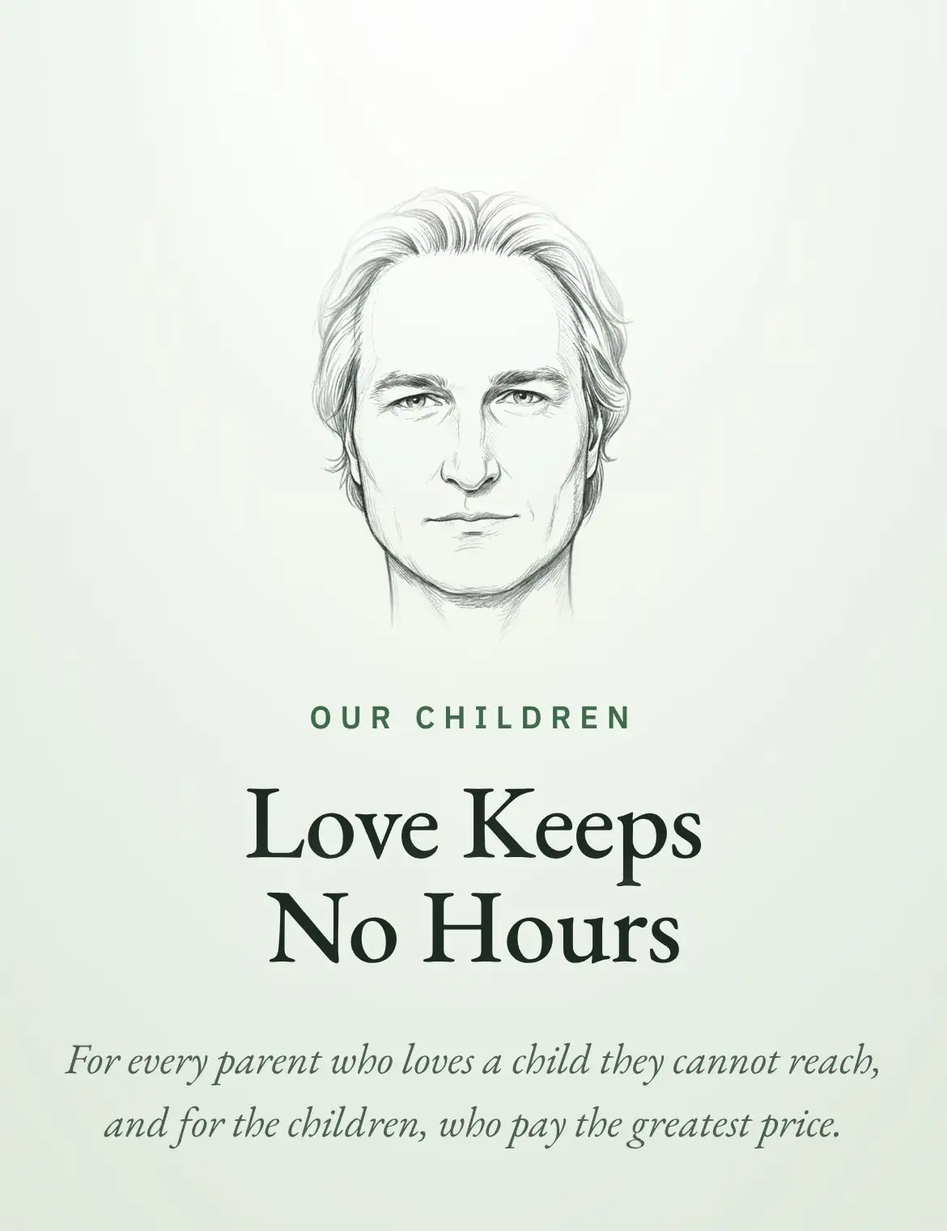
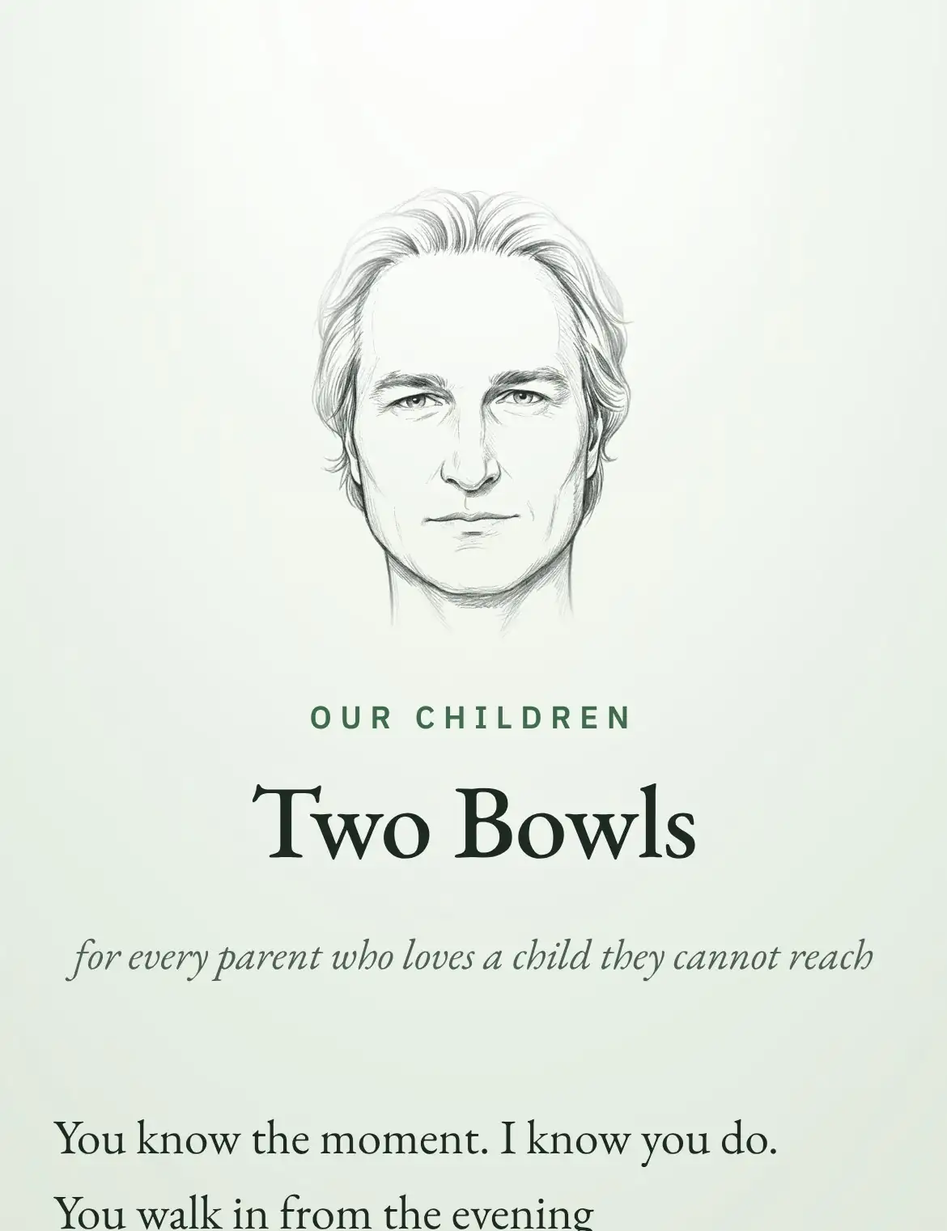
halseyminor.com: counts as of 2026-11-16

diff --git a/index.html b/index.html
@@ -13,12 +13,12 @@
 <meta charset="utf-8">
 <meta name="viewport" content="width=device-width, initial-scale=1, viewport-fit=cover">
 <title>Our Children · Halsey Minor</title>
-<meta name="description" content="For every parent who loves a child they cannot reach, and for the children, who pay the greatest price.">
+<meta name="description" content="For every parent who loves a child they cannot reach.">
 <link rel="canonical" href="https://halseyminor.com/our-children/">
 <meta property="og:type" content="website">
 <meta property="og:url" content="https://halseyminor.com/our-children/">
-<meta property="og:title" content="Love Keeps No Hours">
-<meta property="og:description" content="For every parent who loves a child they cannot reach, and for the children, who pay the greatest price.">
+<meta property="og:title" content="Two Bowls">
+<meta property="og:description" content="For every parent who loves a child they cannot reach.">
 <link rel="icon" href="/our-children/icon.svg" type="image/svg+xml">
 <meta name="theme-color" content="#E7EEE4">
 <link rel="stylesheet" href="https://fonts.googleapis.com/css2?family=Jost:wght@400;500;600;700;800&family=IBM+Plex+Sans:wght@400;600&family=EB+Garamond:ital,wght@0,400;0,500;1,400&family=IBM+Plex+Mono:wght@500&display=swap">
@@ -90,93 +90,69 @@ a { color: var(--leaf); text-underline-offset: 3px; text-decoration-thickness: 1
   <article class="poem" data-who="halsey" aria-labelledby="poem-h">
     <div class="face"><img src="/our-children/halsey.webp" srcset="/our-children/halsey-sm.webp 320w, /our-children/halsey.webp 620w" sizes="(max-width: 599px) 150px, 230px" width="620" height="840" alt="Halsey Minor, drawn in pencil" decoding="async" fetchpriority="high"></div>
     <p class="kick">Our Children</p>
-    <h1 id="poem-h">Love Keeps No Hours</h1>
-    <p class="ded"><span>For every parent who loves a child they cannot reach,</span>
-      <span>and for the children, who pay the greatest price.</span></p>
-    <p class="st"><span>I never met my father.</span>
-      <span>He was gone at seven months,</span>
-      <span>and they handed me a story</span>
-      <span>where a father should have been.</span></p>
-    <p class="st"><span>A child believes the story.</span>
-      <span>A child has nothing else.</span>
-      <span>So I grew up on a story,</span>
-      <span>and I made myself a vow:</span>
-      <span>I would never do to my children</span>
-      <span>what my father did to me.</span></p>
-    <p class="st"><span>My father left.</span>
-      <span>I came back.</span></p>
-    <p class="st"><span>I came back down the long gray road,</span>
-      <span>six hours, seven, every week.</span>
-      <span>Six years, seven, every week,</span>
-      <span>half a father in two cities,</span>
-      <span>whole in neither,</span>
-      <span>so no child of mine would ever wonder</span>
-      <span>whether their father would come.</span></p>
-    <p class="st"><span>Now hear me, you who keep the clock,</span>
-      <span>you who are paid by the hour</span>
-      <span>to end what you profit to prolong.</span>
-      <span>You will not end it.</span>
-      <span>You were never built to end it.</span>
-      <span>Peace is the one thing in this world</span>
-      <span>you have no way to bill.</span></p>
-    <p class="st"><span>Did you think we would not notice?</span>
-      <span>Did you think the children wouldn’t pay?</span>
-      <span>Did you think a parent’s heart</span>
-      <span>could be itemized away?</span></p>
-    <p class="st"><span>You may bill us by the minute,</span>
-      <span>you may bill us by the year,</span>
-      <span>but love was never yours to bill,</span>
-      <span>and love is why we’re here.</span></p>
-    <p class="st refrain"><span>And the meter runs.</span></p>
-    <p class="st"><span>It runs through birthdays.</span>
-      <span>It runs through graduations</span>
-      <span>and every empty holiday,</span>
-      <span>while a child is taught, word by word,</span>
-      <span>to turn against the very blood</span>
-      <span>from which that child has come.</span></p>
-    <p class="st"><span>I had a son.</span>
-      <span>His name was Mackie.</span>
-      <span>From the seventh grade,</span>
-      <span>every time I came back,</span>
-      <span>a little more of him was gone,</span>
-      <span>and there was nothing I could do.</span>
-      <span>Nothing.</span></p>
-    <p class="st"><span>Do not tell me the children do not pay.</span>
-      <span>I have a son to prove it.</span></p>
-    <p class="st"><span>I am not the only one.</span>
-      <span>Go and count us. Count us all.</span>
-      <span>We are the calls that ring and ring,</span>
-      <span>the birthdays sent into the dark,</span>
-      <span>the photographs that stop</span>
-      <span>at a certain age.</span>
+    <h1 id="poem-h">Two Bowls</h1>
+    <p class="ded"><span>for every parent who loves a child they cannot reach</span></p>
+    <p class="st"><span>You know the moment. I know you do.</span>
+      <span>You walk in from the evening</span>
+      <span>the way a tired person will,</span>
+      <span>you take a seat, you lift the menu,</span>
+      <span>and the room is calm and still.</span></p>
+    <p class="st"><span>Then a word rises up to meet you</span>
+      <span>from a plain and printed line.</span>
+      <span>For me it was a bowl of ramen.</span>
+      <span>For you it’s some other sign:</span>
+      <span>a cereal, a song, a sweater,</span>
+      <span>a name called out across a store,</span>
+      <span>a laugh that sounds like someone’s laugh</span>
+      <span>who doesn’t laugh with you anymore.</span></p>
+    <p class="st"><span>And we sit there, don’t we?</span>
+      <span>We sit there with the page,</span>
+      <span>strangers eating all around us,</span>
+      <span>and we feel it, every age</span>
+      <span>they ever were come back to us</span>
+      <span>like steam above the bowl.</span>
+      <span>We don’t call the waiter.</span>
+      <span>We let it fill the whole.</span></p>
+    <p class="st"><span>For grief is only love, my friend,</span>
+      <span>with nowhere left to go,</span>
+      <span>so it gathers in a mother,</span>
+      <span>in a father, soft and slow.</span></p>
+    <p class="st"><span>We are many. Count us.</span>
+      <span>We are at the counter and the light.</span>
+      <span>We are the ones who set the table</span>
+      <span>and still save a chair at night.</span>
       <span>We did not stop loving.</span>
-      <span>We were stopped.</span>
-      <span>And we are not finished.</span>
-      <span>We are not finished yet.</span></p>
-    <p class="st"><span>And you, child,</span>
-      <span>wherever you are tonight,</span>
-      <span>whatever you were told,</span>
-      <span>whatever you believe:</span>
-      <span>you were never the war.</span>
-      <span>You were never the price.</span>
-      <span>You were never the reason.</span>
-      <span>The blood you come from</span>
-      <span>is not your enemy.</span>
-      <span>It is a song in you.</span>
-      <span>It still knows your name.</span></p>
-    <p class="st"><span>So let the meter run.</span>
-      <span>Let them bill the night.</span>
-      <span>Love does not send a bill.</span>
-      <span>Love does not watch the clock.</span>
-      <span>Love keeps no hours.</span></p>
-    <p class="st"><span>The door is open.</span>
-      <span>It was always open.</span>
-      <span>Come whenever you are ready,</span>
-      <span>next week or ten years on,</span>
-      <span>and you will find me here.</span></p>
-    <p class="st"><span>I am here.</span>
-      <span>I am here.</span>
-      <span>I am here.</span></p>
+      <span>We are loving still.</span>
+      <span>We let go of the rope so they would not be torn.</span>
+      <span>We did not let go of the will.</span></p>
+    <p class="st"><span>A child was never made to be a rope</span>
+      <span>pulled hard from either end.</span>
+      <span>Some of us have let go of our end,</span>
+      <span>not to lose them, but so they would not bend</span>
+      <span>and break the way the young can break</span>
+      <span>when they are pulled too far.</span>
+      <span>We let go of the rope, our loves.</span>
+      <span>We did not let go of who you are.</span></p>
+    <p class="st"><span>So hear us now, you children,</span>
+      <span>wherever you are tonight.</span>
+      <span>The soup will cool, the night will close,</span>
+      <span>the city keeps its light,</span>
+      <span>but love is not a dish that cools,</span>
+      <span>and love is never gone.</span>
+      <span>It waits for you the way the morning</span>
+      <span>waits for you to come along.</span></p>
+    <p class="st"><span>There is a seat beside us.</span>
+      <span>There will always be a seat.</span>
+      <span>Come next year, or come in twenty.</span>
+      <span>Come hungry. Come complete.</span>
+      <span>Come angry if you have to.</span>
+      <span>Come with questions, come with doubt.</span>
+      <span>We will order two bowls of anything,</span>
+      <span>and we will work it out.</span></p>
+    <p class="st"><span>Still, we are here.</span>
+      <span>Still, we are here.</span>
+      <span>Still.</span>
+      <span>Here</span></p>
     <div class="sign" role="img" aria-label="Halsey Minor’s signature" data-ms="2370"><svg viewBox="0 0 369 116" width="369" height="116" aria-hidden="true" focusable="false"><defs><mask id="sig-m" maskUnits="userSpaceOnUse" x="0" y="0" width="369" height="116"><path class="sp" pathLength="1" style="--d:0.00s;--t:0.23s" d="M10,95 L18,96 L19,97 L27,97 L37,94 L44,90 L49,89 L51,87 L54,82 L54,77 L61,57 L61,54 L63,50 L64,43 L68,31 L69,21 L71,18"/><path class="sp" pathLength="1" style="--d:0.29s;--t:0.12s" d="M14,97 L14,99 L28,110 L30,111 L37,111 L44,103 L48,95 L48,91 L49,90"/><path class="sp" pathLength="1" style="--d:0.47s;--t:0.33s" d="M54,83 L59,81 L64,76 L73,74 L75,72 L75,70 L83,60 L82,55 L96,28 L101,21 L110,12 L116,11 L117,13 L117,20 L111,33 L98,49 L86,60 L84,60 L85,59 L84,58"/><path class="sp" pathLength="1" style="--d:0.86s;--t:0.12s" d="M55,60 L58,46 L63,31 L66,24 L68,24"/><path class="sp" pathLength="1" style="--d:1.04s;--t:0.12s" d="M65,92 L68,89 L68,85 L71,80 L72,75"/><path class="sp" pathLength="1" style="--d:1.22s;--t:0.13s" d="M67,91 L68,92 L73,92 L78,94 L84,94 L85,93 L92,92 L116,81 L126,74"/><path class="sp" pathLength="1" style="--d:1.41s;--t:0.12s" d="M87,60 L97,50"/><path class="sp" pathLength="1" style="--d:1.59s;--t:0.12s" d="M162,68 L164,62 L171,53 L180,38 L182,37 L182,35 L186,34 L188,29"/><path class="sp" pathLength="1" style="--d:1.77s;--t:0.12s" d="M173,63 L174,61 L176,60 L176,54 L179,50 L185,36 L186,35 L186,36"/><path class="sp" pathLength="1" style="--d:1.95s;--t:0.36s" d="M177,57 L178,59 L180,59 L182,58 L187,52 L193,51 L197,55 L205,58 L222,58 L223,57 L230,57 L231,56 L242,55 L243,54 L257,52 L271,48 L275,48 L276,47 L280,47 L281,46 L285,46 L286,45 L290,45 L291,44 L295,44 L301,42 L306,42 L307,41 L313,41 L314,40 L320,40 L321,39 L329,39 L330,38 L340,38 L341,37 L355,37"/></mask></defs><image href="/our-children/signature.webp" x="0" y="0" width="369" height="116"/></svg></div>
     <p class="help">If you are a parent or a child who is hurting tonight, call or text <a href="tel:988">988</a>, any hour.</p>
   </article>

diff --git a/our-children/index.html b/our-children/index.html
@@ -13,12 +13,12 @@
 <meta charset="utf-8">
 <meta name="viewport" content="width=device-width, initial-scale=1, viewport-fit=cover">
 <title>Our Children · Halsey Minor</title>
-<meta name="description" content="For every parent who loves a child they cannot reach, and for the children, who pay the greatest price.">
+<meta name="description" content="For every parent who loves a child they cannot reach.">
 <link rel="canonical" href="https://halseyminor.com/our-children/">
 <meta property="og:type" content="website">
 <meta property="og:url" content="https://halseyminor.com/our-children/">
-<meta property="og:title" content="Love Keeps No Hours">
-<meta property="og:description" content="For every parent who loves a child they cannot reach, and for the children, who pay the greatest price.">
+<meta property="og:title" content="Two Bowls">
+<meta property="og:description" content="For every parent who loves a child they cannot reach.">
 <link rel="icon" href="/our-children/icon.svg" type="image/svg+xml">
 <meta name="theme-color" content="#E7EEE4">
 <link rel="stylesheet" href="https://fonts.googleapis.com/css2?family=Jost:wght@400;500;600;700;800&family=IBM+Plex+Sans:wght@400;600&family=EB+Garamond:ital,wght@0,400;0,500;1,400&family=IBM+Plex+Mono:wght@500&display=swap">
@@ -90,93 +90,69 @@ a { color: var(--leaf); text-underline-offset: 3px; text-decoration-thickness: 1
   <article class="poem" data-who="halsey" aria-labelledby="poem-h">
     <div class="face"><img src="/our-children/halsey.webp" srcset="/our-children/halsey-sm.webp 320w, /our-children/halsey.webp 620w" sizes="(max-width: 599px) 150px, 230px" width="620" height="840" alt="Halsey Minor, drawn in pencil" decoding="async" fetchpriority="high"></div>
     <p class="kick">Our Children</p>
-    <h1 id="poem-h">Love Keeps No Hours</h1>
-    <p class="ded"><span>For every parent who loves a child they cannot reach,</span>
-      <span>and for the children, who pay the greatest price.</span></p>
-    <p class="st"><span>I never met my father.</span>
-      <span>He was gone at seven months,</span>
-      <span>and they handed me a story</span>
-      <span>where a father should have been.</span></p>
-    <p class="st"><span>A child believes the story.</span>
-      <span>A child has nothing else.</span>
-      <span>So I grew up on a story,</span>
-      <span>and I made myself a vow:</span>
-      <span>I would never do to my children</span>
-      <span>what my father did to me.</span></p>
-    <p class="st"><span>My father left.</span>
-      <span>I came back.</span></p>
-    <p class="st"><span>I came back down the long gray road,</span>
-      <span>six hours, seven, every week.</span>
-      <span>Six years, seven, every week,</span>
-      <span>half a father in two cities,</span>
-      <span>whole in neither,</span>
-      <span>so no child of mine would ever wonder</span>
-      <span>whether their father would come.</span></p>
-    <p class="st"><span>Now hear me, you who keep the clock,</span>
-      <span>you who are paid by the hour</span>
-      <span>to end what you profit to prolong.</span>
-      <span>You will not end it.</span>
-      <span>You were never built to end it.</span>
-      <span>Peace is the one thing in this world</span>
-      <span>you have no way to bill.</span></p>
-    <p class="st"><span>Did you think we would not notice?</span>
-      <span>Did you think the children wouldn’t pay?</span>
-      <span>Did you think a parent’s heart</span>
-      <span>could be itemized away?</span></p>
-    <p class="st"><span>You may bill us by the minute,</span>
-      <span>you may bill us by the year,</span>
-      <span>but love was never yours to bill,</span>
-      <span>and love is why we’re here.</span></p>
-    <p class="st refrain"><span>And the meter runs.</span></p>
-    <p class="st"><span>It runs through birthdays.</span>
-      <span>It runs through graduations</span>
-      <span>and every empty holiday,</span>
-      <span>while a child is taught, word by word,</span>
-      <span>to turn against the very blood</span>
-      <span>from which that child has come.</span></p>
-    <p class="st"><span>I had a son.</span>
-      <span>His name was Mackie.</span>
-      <span>From the seventh grade,</span>
-      <span>every time I came back,</span>
-      <span>a little more of him was gone,</span>
-      <span>and there was nothing I could do.</span>
-      <span>Nothing.</span></p>
-    <p class="st"><span>Do not tell me the children do not pay.</span>
-      <span>I have a son to prove it.</span></p>
-    <p class="st"><span>I am not the only one.</span>
-      <span>Go and count us. Count us all.</span>
-      <span>We are the calls that ring and ring,</span>
-      <span>the birthdays sent into the dark,</span>
-      <span>the photographs that stop</span>
-      <span>at a certain age.</span>
+    <h1 id="poem-h">Two Bowls</h1>
+    <p class="ded"><span>for every parent who loves a child they cannot reach</span></p>
+    <p class="st"><span>You know the moment. I know you do.</span>
+      <span>You walk in from the evening</span>
+      <span>the way a tired person will,</span>
+      <span>you take a seat, you lift the menu,</span>
+      <span>and the room is calm and still.</span></p>
+    <p class="st"><span>Then a word rises up to meet you</span>
+      <span>from a plain and printed line.</span>
+      <span>For me it was a bowl of ramen.</span>
+      <span>For you it’s some other sign:</span>
+      <span>a cereal, a song, a sweater,</span>
+      <span>a name called out across a store,</span>
+      <span>a laugh that sounds like someone’s laugh</span>
+      <span>who doesn’t laugh with you anymore.</span></p>
+    <p class="st"><span>And we sit there, don’t we?</span>
+      <span>We sit there with the page,</span>
+      <span>strangers eating all around us,</span>
+      <span>and we feel it, every age</span>
+      <span>they ever were come back to us</span>
+      <span>like steam above the bowl.</span>
+      <span>We don’t call the waiter.</span>
+      <span>We let it fill the whole.</span></p>
+    <p class="st"><span>For grief is only love, my friend,</span>
+      <span>with nowhere left to go,</span>
+      <span>so it gathers in a mother,</span>
+      <span>in a father, soft and slow.</span></p>
+    <p class="st"><span>We are many. Count us.</span>
+      <span>We are at the counter and the light.</span>
+      <span>We are the ones who set the table</span>
+      <span>and still save a chair at night.</span>
       <span>We did not stop loving.</span>
-      <span>We were stopped.</span>
-      <span>And we are not finished.</span>
-      <span>We are not finished yet.</span></p>
-    <p class="st"><span>And you, child,</span>
-      <span>wherever you are tonight,</span>
-      <span>whatever you were told,</span>
-      <span>whatever you believe:</span>
-      <span>you were never the war.</span>
-      <span>You were never the price.</span>
-      <span>You were never the reason.</span>
-      <span>The blood you come from</span>
-      <span>is not your enemy.</span>
-      <span>It is a song in you.</span>
-      <span>It still knows your name.</span></p>
-    <p class="st"><span>So let the meter run.</span>
-      <span>Let them bill the night.</span>
-      <span>Love does not send a bill.</span>
-      <span>Love does not watch the clock.</span>
-      <span>Love keeps no hours.</span></p>
-    <p class="st"><span>The door is open.</span>
-      <span>It was always open.</span>
-      <span>Come whenever you are ready,</span>
-      <span>next week or ten years on,</span>
-      <span>and you will find me here.</span></p>
-    <p class="st"><span>I am here.</span>
-      <span>I am here.</span>
-      <span>I am here.</span></p>
+      <span>We are loving still.</span>
+      <span>We let go of the rope so they would not be torn.</span>
+      <span>We did not let go of the will.</span></p>
+    <p class="st"><span>A child was never made to be a rope</span>
+      <span>pulled hard from either end.</span>
+      <span>Some of us have let go of our end,</span>
+      <span>not to lose them, but so they would not bend</span>
+      <span>and break the way the young can break</span>
+      <span>when they are pulled too far.</span>
+      <span>We let go of the rope, our loves.</span>
+      <span>We did not let go of who you are.</span></p>
+    <p class="st"><span>So hear us now, you children,</span>
+      <span>wherever you are tonight.</span>
+      <span>The soup will cool, the night will close,</span>
+      <span>the city keeps its light,</span>
+      <span>but love is not a dish that cools,</span>
+      <span>and love is never gone.</span>
+      <span>It waits for you the way the morning</span>
+      <span>waits for you to come along.</span></p>
+    <p class="st"><span>There is a seat beside us.</span>
+      <span>There will always be a seat.</span>
+      <span>Come next year, or come in twenty.</span>
+      <span>Come hungry. Come complete.</span>
+      <span>Come angry if you have to.</span>
+      <span>Come with questions, come with doubt.</span>
+      <span>We will order two bowls of anything,</span>
+      <span>and we will work it out.</span></p>
+    <p class="st"><span>Still, we are here.</span>
+      <span>Still, we are here.</span>
+      <span>Still.</span>
+      <span>Here</span></p>
     <div class="sign" role="img" aria-label="Halsey Minor’s signature" data-ms="2370"><svg viewBox="0 0 369 116" width="369" height="116" aria-hidden="true" focusable="false"><defs><mask id="sig-m" maskUnits="userSpaceOnUse" x="0" y="0" width="369" height="116"><path class="sp" pathLength="1" style="--d:0.00s;--t:0.23s" d="M10,95 L18,96 L19,97 L27,97 L37,94 L44,90 L49,89 L51,87 L54,82 L54,77 L61,57 L61,54 L63,50 L64,43 L68,31 L69,21 L71,18"/><path class="sp" pathLength="1" style="--d:0.29s;--t:0.12s" d="M14,97 L14,99 L28,110 L30,111 L37,111 L44,103 L48,95 L48,91 L49,90"/><path class="sp" pathLength="1" style="--d:0.47s;--t:0.33s" d="M54,83 L59,81 L64,76 L73,74 L75,72 L75,70 L83,60 L82,55 L96,28 L101,21 L110,12 L116,11 L117,13 L117,20 L111,33 L98,49 L86,60 L84,60 L85,59 L84,58"/><path class="sp" pathLength="1" style="--d:0.86s;--t:0.12s" d="M55,60 L58,46 L63,31 L66,24 L68,24"/><path class="sp" pathLength="1" style="--d:1.04s;--t:0.12s" d="M65,92 L68,89 L68,85 L71,80 L72,75"/><path class="sp" pathLength="1" style="--d:1.22s;--t:0.13s" d="M67,91 L68,92 L73,92 L78,94 L84,94 L85,93 L92,92 L116,81 L126,74"/><path class="sp" pathLength="1" style="--d:1.41s;--t:0.12s" d="M87,60 L97,50"/><path class="sp" pathLength="1" style="--d:1.59s;--t:0.12s" d="M162,68 L164,62 L171,53 L180,38 L182,37 L182,35 L186,34 L188,29"/><path class="sp" pathLength="1" style="--d:1.77s;--t:0.12s" d="M173,63 L174,61 L176,60 L176,54 L179,50 L185,36 L186,35 L186,36"/><path class="sp" pathLength="1" style="--d:1.95s;--t:0.36s" d="M177,57 L178,59 L180,59 L182,58 L187,52 L193,51 L197,55 L205,58 L222,58 L223,57 L230,57 L231,56 L242,55 L243,54 L257,52 L271,48 L275,48 L276,47 L280,47 L281,46 L285,46 L286,45 L290,45 L291,44 L295,44 L301,42 L306,42 L307,41 L313,41 L314,40 L320,40 L321,39 L329,39 L330,38 L340,38 L341,37 L355,37"/></mask></defs><image href="/our-children/signature.webp" x="0" y="0" width="369" height="116"/></svg></div>
     <p class="help">If you are a parent or a child who is hurting tonight, call or text <a href="tel:988">988</a>, any hour.</p>
   </article>

diff --git a/fight/index.html b/fight/index.html
@@ -869,9 +869,9 @@ html.arrive .nav-a.ar-lit { opacity: 1; border-bottom-color: #FFFFFF; text-shado
   <section class="sec fight" id="watch">
     <div class="wrap">
       <h2>The fight, round by round.</h2>
-      <p class="score" data-rounds='[["2026-10-07","fail","2026-10-07"],["2026-10-13","fail","2026-10-22"],["2026-10-17","fail","2026-10-17"],["2026-10-21","fail","2026-10-24"],["2026-10-21","fail","2026-10-22"],["2026-10-23","fail","2026-10-23"],["2026-10-23","fail","2026-10-23"],["2026-10-24","fail","2026-10-24"],["2026-10-24","answered","2026-10-28"],["2026-10-28","fail","2026-10-28"],["2026-10-28","fail","2026-10-23"],["2026-10-28","fail","2026-10-28"],["2026-11-04","fail","2026-10-28"],["2026-11-04","fail","2026-11-04"],["2026-11-04","fail","2026-11-04"],["2026-11-04","fail","2026-11-04"],["2026-11-05","open",""],["2026-11-09","replied","2026-11-05"],["2026-11-09","answered","2026-10-30"],["2026-11-09","open",""],["2026-11-12","open",""],["2026-11-12","open",""],["2026-11-12","open",""],["2026-11-16","open",""],["2026-11-16","open",""],["2026-11-16","replied","2026-11-07"]]'><span class="rnd">Round <b data-round>27</b></span> <span data-move>Their move</span>. Answered on time: <b><span data-n="ontime">1</span> of <span data-n="come">26</span></b> · answered late <span data-n="late">1</span> · Fail <span data-n="fail">15</span> · overdue <span data-n="overdue">6</span> · due today <span data-n="today">3</span>.</p>
+      <p class="score" data-rounds='[["2026-10-07","fail","2026-10-07"],["2026-10-13","fail","2026-10-22"],["2026-10-17","fail","2026-10-17"],["2026-10-21","fail","2026-10-24"],["2026-10-21","fail","2026-10-22"],["2026-10-23","fail","2026-10-23"],["2026-10-23","fail","2026-10-23"],["2026-10-24","fail","2026-10-24"],["2026-10-24","answered","2026-10-28"],["2026-10-28","fail","2026-10-28"],["2026-10-28","fail","2026-10-23"],["2026-10-28","fail","2026-10-28"],["2026-11-04","fail","2026-10-28"],["2026-11-04","fail","2026-11-04"],["2026-11-04","fail","2026-11-04"],["2026-11-04","fail","2026-11-04"],["2026-11-05","open",""],["2026-11-09","replied","2026-11-05"],["2026-11-09","answered","2026-10-30"],["2026-11-09","open",""],["2026-11-12","open",""],["2026-11-12","open",""],["2026-11-12","open",""],["2026-11-16","open",""],["2026-11-16","open",""],["2026-11-16","replied","2026-11-07"],["2026-11-30","open",""]]'><span class="rnd">Round <b data-round>27</b></span> <span data-move>Their move</span>. Answered on time: <b><span data-n="ontime">1</span> of <span data-n="come">26</span></b> · answered late <span data-n="late">1</span> · Fail <span data-n="fail">15</span> · overdue <span data-n="overdue">6</span> · due today <span data-n="today">3</span>.</p>
       <ul class="due">
-        <li class="r1"><button class="r1-open" type="button" data-pop="pop-unanswered" aria-haspopup="dialog"><i class="rn">Round 1</i><b class="r1-n">26</b><span class="r1-t">requests still unanswered: 18 to the police and the City, 7 to the District Attorney, 1 to the state’s police licensing commission. 9 have a date set by law.</span><span class="r1-go">See all 26</span></button></li>
+        <li class="r1"><button class="r1-open" type="button" data-pop="pop-unanswered" aria-haspopup="dialog"><i class="rn">Round 1</i><b class="r1-n">27</b><span class="r1-t">requests still unanswered: 19 to the police and the City, 7 to the District Attorney, 1 to the state’s police licensing commission. 9 have a date set by law.</span><span class="r1-go">See all 27</span></button></li>
         <li class="d late" id="req-17" data-row="17" data-due="2026-10-07" data-fail="2026-10-07" title="The District Attorney&#x27;s office never answered by October 7. He withdrew the request on October 18."><span class="dt"><i class="rn">Round 2</i>Oct 7</span><span class="txt">The District Attorney's answer on renewing the evidence preservation requests to Google and Meta.</span><span class="chip fail">Fail · 40 days</span></li>
         <li class="d late" id="req-5" data-row="5" data-due="2026-10-13" data-fail="2026-10-22" title="Its answer did not give everything the request asked."><span class="dt"><i class="rn">Round 3</i>Oct 13</span><span class="txt">The District Attorney's letter of the decision, and answers to his questions of September 21.<span class="viol">Violation of Penal Code §11116.10</span></span><span class="chip fail">Fail · 25 days</span></li>
         <li class="p late" id="req-19" data-row="19" data-due="2026-10-17" data-fail="2026-10-17" title="Her answer did not give what the law requires. See My Response."><span class="dt"><i class="rn">Round 4</i>Oct 17</span><span class="txt">The Records Bureau's answer to his October 7 additions.<span class="viol">Violation of Gov. Code §7922.535(a)</span></span><span class="chip fail">Fail · 30 days</span></li>
@@ -905,9 +905,10 @@ html.arrive .nav-a.ar-lit { opacity: 1; border-bottom-color: #FFFFFF; text-shado
         <li class="p" id="req-58" data-row="58" data-due="2026-11-16"><span class="dt"><i class="rn">Round 25</i>Nov 16</span><span class="txt">The City Manager on his October 30 letter: what attention it got, whether the Council was told, and who answers for each item.</span><span class="chip today">Due today</span></li>
         <li class="p" id="req-60" data-row="60" data-due="2026-11-16"><span class="dt"><i class="rn">Round 26</i>Nov 16</span><span class="txt">The police on which counts went to the District Attorney, from which date it counted, and whether the evidence goes before December 30.</span><span class="chip today">Due today</span></li>
         <li class="p" id="req-75" data-row="75" data-due="2026-11-16" data-replied="Nov 7"><span class="dt"><i class="rn">Round 27</i>Nov 16</span><span class="txt">The Records Bureau on the recording of his March 25, 2025 statement, a decision on each item still open, and its email quarantine.<span class="viol">Violation of Gov. Code §7922.535(a), (b)</span></span><span class="chip">Replied Nov 7</span></li>
+        <li class="p" id="req-79" data-row="79" data-due="2026-11-30"><span class="dt"><i class="rn">Round 28</i>Nov 30</span><span class="txt">Professional Standards, asked again for copies of his statements and a line on each of his three questions.<span class="viol">Violation of Penal Code §832.7(c); Gov. Code §7922.535(a)</span></span><span class="chip">Due in 14 days</span></li>
         <li class="law" data-due="2026-12-30" data-end="2027-01-23" data-kind="limit"><span class="dt">Dec 30</span><span class="txt">Through December 30, 2026 at the earliest, or January 23, 2027: the four years Penal Code §801.5 gives to charge the theft.</span><span class="chip">44 days left</span></li>
       </ul>
-      <dialog class="pop" id="pop-unanswered" aria-labelledby="pop-unanswered-h"><div class="pop-head"><h3 id="pop-unanswered-h">26 requests still unanswered</h3><button class="pop-x" type="button">Close</button></div><div class="pop-body">
+      <dialog class="pop" id="pop-unanswered" aria-labelledby="pop-unanswered-h"><div class="pop-head"><h3 id="pop-unanswered-h">27 requests still unanswered</h3><button class="pop-x" type="button">Close</button></div><div class="pop-body">
         <ol class="un-list">
           <li class="d late" data-due="2026-10-07" data-fail="2026-10-07"><span class="un-rn">Round 2</span><span class="un-main"><span class="un-to">The District Attorney</span>The District Attorney's answer on renewing the evidence preservation requests to Google and Meta.<span class="un-meta">Asked Sep 30 · due Oct 7 · his own date</span></span><span class="chip fail">Fail · 40 days</span></li>
           <li class="d late" data-due="2026-10-13" data-fail="2026-10-22"><span class="un-rn">Round 3</span><span class="un-main"><span class="un-to">The District Attorney</span>The District Attorney's letter of the decision, and answers to his questions of September 21.<span class="un-meta">Asked Sep 16 · due Oct 13 · his own date</span><span class="viol">Violation of Penal Code §11116.10</span></span><span class="chip fail">Fail · 25 days</span></li>
@@ -935,6 +936,7 @@ html.arrive .nav-a.ar-lit { opacity: 1; border-bottom-color: #FFFFFF; text-shado
           <li class="p" data-due="2026-11-16"><span class="un-rn">Round 25</span><span class="un-main"><span class="un-to">The police and the City</span>The City Manager on his October 30 letter: what attention it got, whether the Council was told, and who answers for each item.<span class="un-meta">Asked Nov 2 · due Nov 16 · his own date</span></span><span class="chip today">Due today</span></li>
           <li class="p" data-due="2026-11-16"><span class="un-rn">Round 26</span><span class="un-main"><span class="un-to">The police and the City</span>The police on which counts went to the District Attorney, from which date it counted, and whether the evidence goes before December 30.<span class="un-meta">Asked Nov 2 · due Nov 16 · his own date</span></span><span class="chip today">Due today</span></li>
           <li class="p" data-due="2026-11-16" data-replied="Nov 7"><span class="un-rn">Round 27</span><span class="un-main"><span class="un-to">The police and the City</span>The Records Bureau on the recording of his March 25, 2025 statement, a decision on each item still open, and its email quarantine.<span class="un-meta">Asked Nov 6 · due Nov 16 · a date set by law</span></span><span class="chip">Replied Nov 7</span></li>
+          <li class="p" data-due="2026-11-30"><span class="un-rn">Round 28</span><span class="un-main"><span class="un-to">The police and the City</span>Professional Standards, asked again for copies of his statements and a line on each of his three questions.<span class="un-meta">Asked Nov 16 · due Nov 30 · his own date</span></span><span class="chip">Due in 14 days</span></li>
         </ol>
         <p class="pop-foot"><button class="pop-x" type="button">Close</button></p>
       </div></dialog>
@@ -1262,7 +1264,7 @@ html.arrive .nav-a.ar-lit { opacity: 1; border-bottom-color: #FFFFFF; text-shado
     { name: 'Going Federal', title: '', line: 'Why Halsey is going federal', face: '/arrive/federal.webp', face2: '/arrive/federal-2x.webp', wide: '/arrive/federal-wide.webp', wide2: '/arrive/federal-wide-2x.webp' },
     { name: 'Mission', title: 'OperatingEquity.ai', line: 'AI-powered companies that address fundamental societal problems', face: '/arrive/mission.webp', face2: '/arrive/mission-2x.webp', wide: '/arrive/mission-wide.webp', wide2: '/arrive/mission-wide-2x.webp' },
     { name: 'Legacy', title: 'Minor on the Law', line: 'Four generations of one family’s argument with the law', face: '/arrive/legacy.webp', face2: '/arrive/legacy-2x.webp', wide: '/arrive/legacy-wide.webp', wide2: '/arrive/legacy-wide-2x.webp' },
-    { name: 'Our Children', title: 'Love Keeps No Hours', line: 'For every parent who loves a child they cannot reach', face: '/arrive/children.webp', face2: '/arrive/children-2x.webp', wide: '/arrive/children-wide.webp', wide2: '/arrive/children-wide-2x.webp' }
+    { name: 'Our Children', title: 'Two Bowls', line: 'For every parent who loves a child they cannot reach', face: '/arrive/children.webp', face2: '/arrive/children-2x.webp', wide: '/arrive/children-wide.webp', wide2: '/arrive/children-wide-2x.webp' }
   ];
   var N = PAGES.length, S = 12, STEP = 360 / N, ALPHA = STEP / S;
   var HERE = 0, START = N - 1;   // it comes to rest on Home; it starts on Our Children, where the click was

diff --git a/legacy/index.html b/legacy/index.html
@@ -520,7 +520,7 @@ dialog.viewer::backdrop { background: var(--veil) }
 
   </div>
 </main>
-<nav class="nx" aria-label="The next page"><a class="nx-card" href="/our-children/"><span class="nx-text"><span class="nx-k">Next · 5 of 5</span><span class="nx-name">Our Children <span aria-hidden="true">→</span></span><span class="nx-line"><b>Love Keeps No Hours</b> · For every parent who loves a child they cannot reach</span><span class="nx-track" aria-hidden="true"><i class="on"></i><i class="on"></i><i class="on"></i><i class="on"></i><i class="go"></i></span></span><span class="nx-pic" aria-hidden="true"><img class="nx-img" src="/arrive/children.webp" alt="" width="390" height="507" loading="lazy" decoding="async"></span></a></nav>
+<nav class="nx" aria-label="The next page"><a class="nx-card" href="/our-children/"><span class="nx-text"><span class="nx-k">Next · 5 of 5</span><span class="nx-name">Our Children <span aria-hidden="true">→</span></span><span class="nx-line"><b>Two Bowls</b> · For every parent who loves a child they cannot reach</span><span class="nx-track" aria-hidden="true"><i class="on"></i><i class="on"></i><i class="on"></i><i class="on"></i><i class="go"></i></span></span><span class="nx-pic" aria-hidden="true"><img class="nx-img" src="/arrive/children.webp" alt="" width="390" height="507" loading="lazy" decoding="async"></span></a></nav>
 
 <dialog class="reader era-1" id="r-truce" aria-labelledby="r-truce-h">
   <header class="rd-head"><div><p class="chip">Division I · 3 March 1865</p><h3 id="r-truce-h">The flag of truce</h3><p class="yrs">Sheridan and Custer enter Charlottesville</p></div><button type="button" class="rd-x" data-close aria-label="Close">×</button></header>
